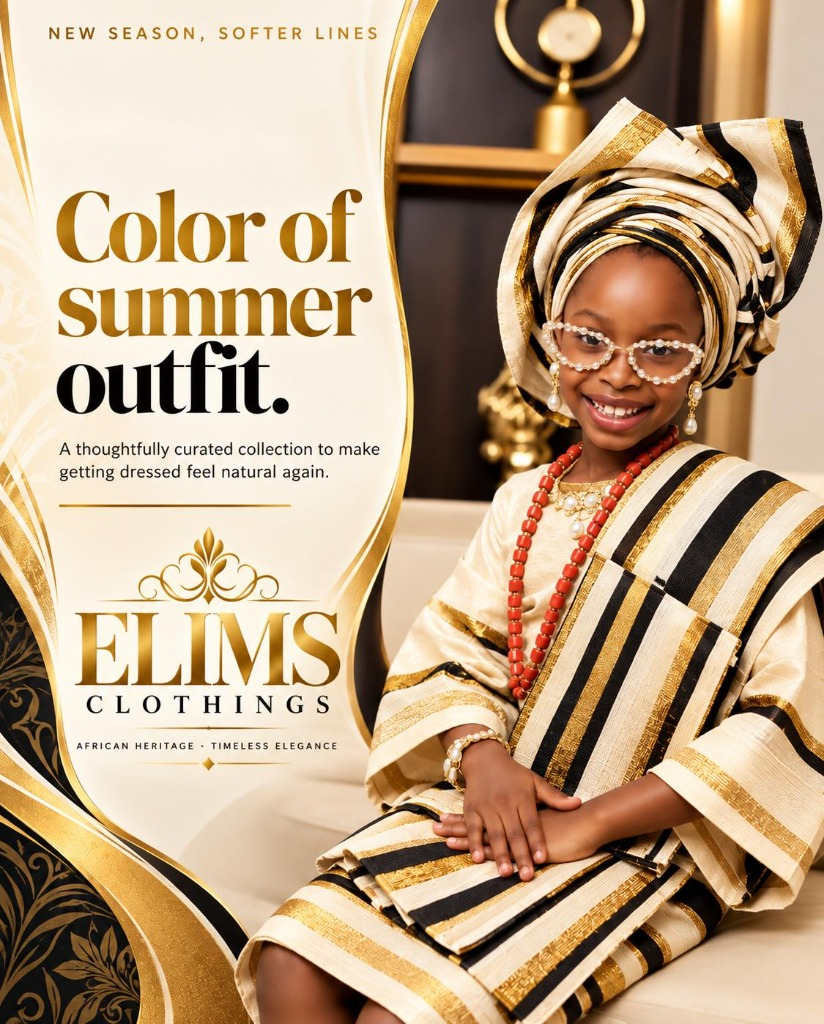
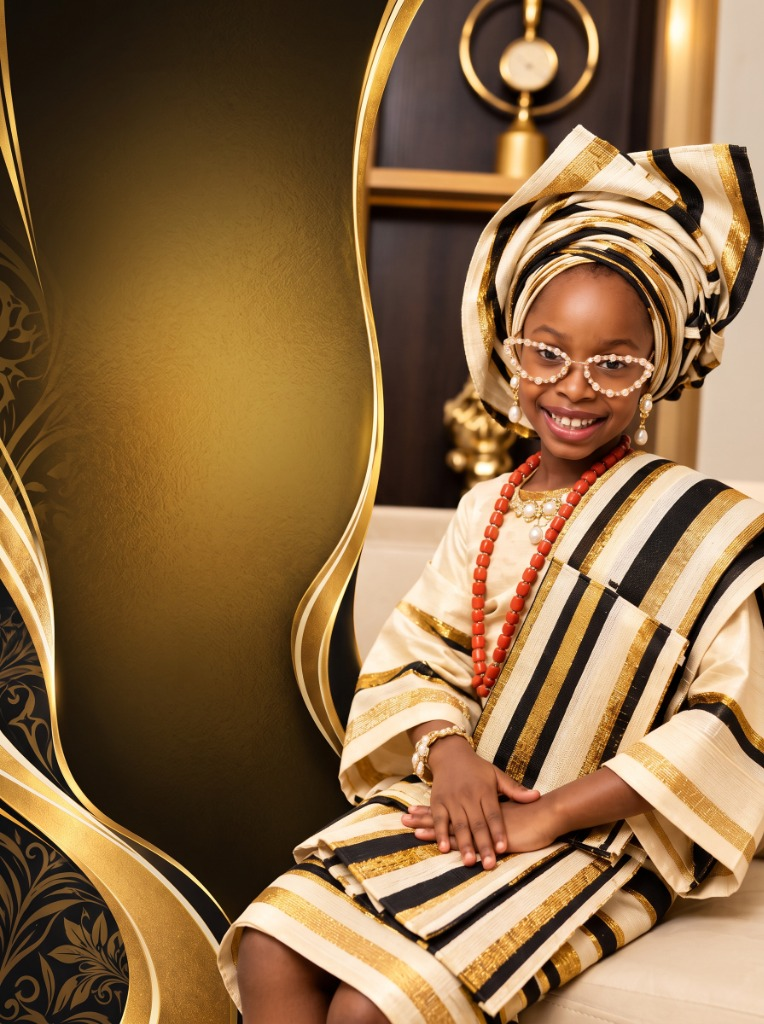
fixes

diff --git a/components/CampaignHero.tsx b/components/CampaignHero.tsx
@@ -84,26 +84,10 @@ export default function CampaignHero() {
 
   return (
     <section className="py-4 sm:py-6">
-      {/* Top Banner Tagline */}
-      <div className="mb-4 flex flex-wrap items-center justify-between gap-2 border-b border-[#e2dcd2] pb-3 text-[11px] uppercase tracking-[0.2em] text-[#856529]">
-        <div className="flex items-center gap-2">
-          <span className="h-1.5 w-1.5 rounded-full bg-[#b88c3a]" />
-          <span className="font-semibold">Official 2026 Campaign</span>
-          <span className="text-[#c5beaf]">•</span>
-          <span className="text-[#64594c]">African Heritage · Timeless Elegance</span>
-        </div>
-        <Link
-          href="/about#family"
-          className="text-[#856529] hover:underline font-medium tracking-[0.16em]"
-        >
-          The Family Behind Elims →
-        </Link>
-      </div>
-
       <div className="grid gap-4 lg:grid-cols-[minmax(0,1.75fr)_minmax(280px,0.75fr)] lg:gap-5">
         {/* MAIN HERO CAROUSEL */}
         <article
-          className="relative min-h-[580px] sm:min-h-[640px] lg:min-h-[660px] overflow-hidden rounded-[2rem] border border-[#e5decb] bg-[#faf7f0] shadow-xl"
+          className="relative min-h-[580px] sm:min-h-[640px] lg:min-h-[660px] overflow-hidden rounded-[2rem] border border-[#e5decb] bg-[#faf7f0] lg:border-[#523d1d] lg:bg-[#1f150a] shadow-xl"
           onMouseEnter={() => setIsPaused(true)}
           onMouseLeave={() => setIsPaused(false)}
         >
@@ -123,58 +107,32 @@ export default function CampaignHero() {
                   fill
                   priority={idx === 0}
                   sizes="(min-width: 1024px) 65vw, 100vw"
-                  className="object-contain object-right-bottom sm:object-cover sm:object-center lg:object-contain lg:object-right"
+                  className="object-contain object-right-bottom sm:object-cover sm:object-center lg:object-cover lg:object-right"
                 />
 
                 {/* Editorial Gradient Overlay for legibility */}
-                <div className="absolute inset-0 bg-gradient-to-r from-[#fbf8f2] via-[#fbf8f2]/90 to-transparent sm:via-[#fbf8f2]/75 lg:from-[#fbf8f2] lg:via-[#fbf8f2]/80 lg:to-transparent lg:w-[60%]" />
+                <div className="absolute inset-0 bg-gradient-to-r from-[#fbf8f2] via-[#fbf8f2]/90 to-transparent sm:via-[#fbf8f2]/75 lg:from-[#1f150a] lg:via-[#1f150a]/90 lg:to-transparent lg:w-[68%]" />
                 <div className="absolute inset-0 bg-gradient-to-t from-[#fbf8f2] via-transparent to-transparent sm:hidden" />
               </div>
             ))}
           </div>
 
-          {/* Decorative Gold Filigree Curve Line */}
-          <div className="pointer-events-none absolute left-0 top-0 h-full w-full">
-            <div className="absolute -left-20 -top-20 h-72 w-72 rounded-full border border-[#d8be86]/30" />
-            <div className="absolute -left-10 -top-10 h-96 w-96 rounded-full border border-[#d8be86]/20" />
-          </div>
 
           {/* Content Layer (Aligned with the typography in the uploaded images) */}
           <div className="relative z-20 flex h-full min-h-[580px] sm:min-h-[640px] lg:min-h-[660px] max-w-xl flex-col justify-between p-7 sm:p-10 lg:p-12">
-            {/* Top Brand Crest & Eyebrow */}
-            <div>
-              <div className="flex items-center gap-3">
-                <span className="h-px w-8 bg-[#c89e47]" />
-                <p className="text-[10px] font-semibold uppercase tracking-[0.22em] text-[#8a6521]">
-                  {activeSlide.eyebrow}
-                </p>
-              </div>
-
-              {/* Gold Crest Monogram */}
-              <div className="mt-4 flex items-center gap-3">
-                <span className="font-serif text-xs tracking-[0.25em] text-[#9c7128]">
-                  ELIMS CLOTHINGS
-                </span>
-                <span className="text-[10px] text-[#c0a266]">❖</span>
-                <span className="text-[9px] uppercase tracking-[0.18em] text-[#8a7a67]">
-                  LAGOS COUTURE
-                </span>
-              </div>
-            </div>
-
-            {/* Middle Main Headline */}
-            <div className="my-6">
-              <span className="inline-block rounded-full border border-[#d8be86] bg-[#f7f2e6] px-3.5 py-1 text-[9.5px] font-semibold uppercase tracking-[0.16em] text-[#876221]">
+            {/* Main Headline Block */}
+            <div className="my-auto py-4">
+              <span className="inline-block rounded-full border border-[#d8be86] bg-[#f7f2e6] px-3.5 py-1 text-[9.5px] font-semibold uppercase tracking-[0.16em] text-[#876221] lg:border-[#8f6e33]/70 lg:bg-[#342413]/80 lg:text-[#f3dfb5]">
                 {activeSlide.badge}
               </span>
 
-              <h1 className="font-garamond mt-4 text-[clamp(2.8rem,5.2vw,5.5rem)] font-light leading-[0.9] tracking-[-0.04em] text-[#865d1d] sm:leading-[0.92]">
+              <h1 className="font-garamond mt-4 text-[clamp(2.8rem,5.2vw,5.5rem)] font-light leading-[0.9] tracking-[-0.04em] text-[#865d1d] lg:text-[#fffdfa] sm:leading-[0.92]">
                 {activeSlide.title}
               </h1>
 
-              <div className="my-4 h-0.5 w-16 bg-gradient-to-r from-[#c89e47] to-transparent" />
+              <div className="my-4 h-0.5 w-16 bg-gradient-to-r from-[#c89e47] to-transparent lg:from-[#e4c98f]" />
 
-              <p className="max-w-md text-[14px] leading-relaxed text-[#595246] sm:text-[15.5px]">
+              <p className="max-w-md text-[14px] leading-relaxed text-[#595246] lg:text-[#dfd7c9] sm:text-[15.5px]">
                 {activeSlide.subtitle}
               </p>
 
@@ -190,7 +148,7 @@ export default function CampaignHero() {
 
                 <Link
                   href="/products/all"
-                  className="inline-flex items-center gap-2 rounded-full border border-[#c5ad7c] bg-white/70 px-5 py-3 text-xs font-semibold uppercase tracking-[0.14em] text-[#715018] backdrop-blur-sm transition-colors hover:bg-white"
+                  className="inline-flex items-center gap-2 rounded-full border border-[#c5ad7c] bg-white/70 px-5 py-3 text-xs font-semibold uppercase tracking-[0.14em] text-[#715018] backdrop-blur-sm transition-colors hover:bg-white lg:border-[#a88344]/70 lg:bg-[#2e1d0f]/70 lg:text-[#f3dfb5] lg:hover:bg-[#3d2714]"
                 >
                   <span>Shop All Pieces</span>
                 </Link>
@@ -198,7 +156,7 @@ export default function CampaignHero() {
             </div>
 
             {/* Bottom Controls & Slide Thumbnails */}
-            <div className="flex flex-wrap items-center justify-between gap-4 border-t border-[#d8be86]/40 pt-4">
+            <div className="flex flex-wrap items-center justify-between gap-4 border-t border-[#d8be86]/40 lg:border-[#856128]/40 pt-4">
               <div className="flex items-center gap-2">
                 {CAMPAIGN_SLIDES.map((slide, idx) => (
                   <button
@@ -207,8 +165,8 @@ export default function CampaignHero() {
                     aria-label={`Go to ${slide.category}`}
                     className={`h-2.5 transition-all duration-300 rounded-full ${
                       idx === current
-                        ? "w-8 bg-[#9c7128]"
-                        : "w-2.5 bg-[#d8be86]/50 hover:bg-[#9c7128]/50"
+                        ? "w-8 bg-[#9c7128] lg:bg-[#e4c98f]"
+                        : "w-2.5 bg-[#d8be86]/50 lg:bg-[#856128]/50 hover:bg-[#9c7128]/50 lg:hover:bg-[#e4c98f]/50"
                     }`}
                   />
                 ))}
@@ -223,7 +181,7 @@ export default function CampaignHero() {
                     )
                   }
                   aria-label="Previous slide"
-                  className="flex h-8 w-8 items-center justify-center rounded-full border border-[#d8be86] bg-white/80 text-[#865d1d] transition hover:bg-[#865d1d] hover:text-white"
+                  className="flex h-8 w-8 items-center justify-center rounded-full border border-[#d8be86] bg-white/80 text-[#865d1d] transition hover:bg-[#865d1d] hover:text-white lg:border-[#856128] lg:bg-[#2b1c0e]/80 lg:text-[#e4c98f] lg:hover:bg-[#e4c98f] lg:hover:text-[#20160b]"
                 >
                   <ChevronLeft size={16} />
                 </button>
@@ -232,7 +190,7 @@ export default function CampaignHero() {
                     setCurrent((prev) => (prev + 1) % CAMPAIGN_SLIDES.length)
                   }
                   aria-label="Next slide"
-                  className="flex h-8 w-8 items-center justify-center rounded-full border border-[#d8be86] bg-white/80 text-[#865d1d] transition hover:bg-[#865d1d] hover:text-white"
+                  className="flex h-8 w-8 items-center justify-center rounded-full border border-[#d8be86] bg-white/80 text-[#865d1d] transition hover:bg-[#865d1d] hover:text-white lg:border-[#856128] lg:bg-[#2b1c0e]/80 lg:text-[#e4c98f] lg:hover:bg-[#e4c98f] lg:hover:text-[#20160b]"
                 >
                   <ChevronRight size={16} />
                 </button>
